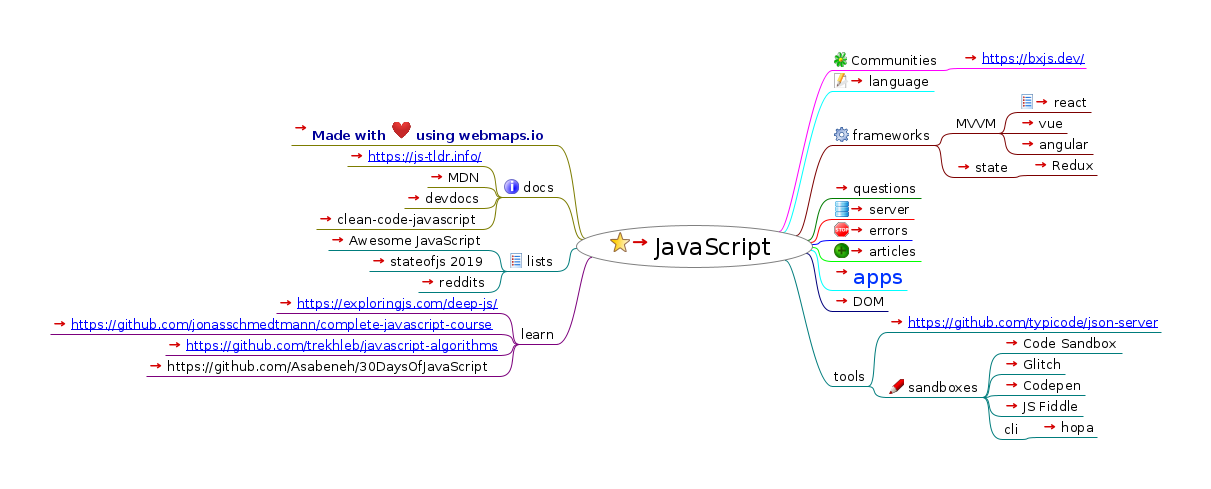
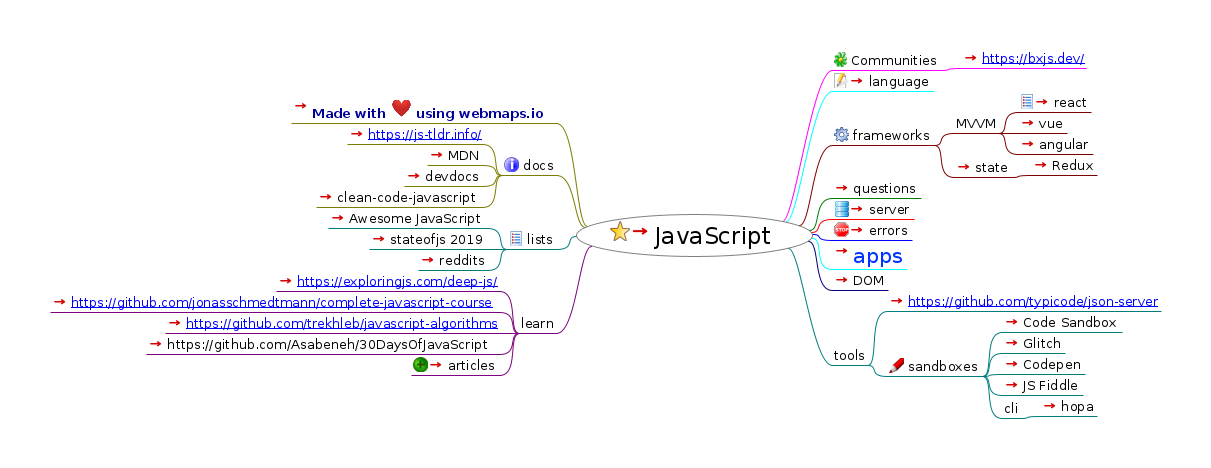
articles

Changed region(s): [[0.0306, 0.0897, 0.9777, 0.9274], [0.5194, 0.5385, 0.6111, 0.5684], [0.4583, 0.2991, 0.4889, 0.3291]]

diff --git a/index.html b/index.html
@@ -23,22 +23,23 @@
                    };
                };
           
-          --></script></head><body><h1>JavaScript</h1><div style="width:96%;  padding:2%;  margin-bottom:10px;  border: 0px;  text-align:center;  vertical-align:center;"><img src="index.html_files/image.png" style="margin-bottom:10px; &#9;border: 0px; &#9;text-align:center; &#9;vertical-align:center;" alt="Imagemap" usemap="#fm_imagemap" /></div><map name="fm_imagemap" id="fm_imagemap"><area shape="rect" href="../tech/index.html" alt="JavaScript" title="JavaScript" coords="576,225,813,268" />
-<area shape="rect" href="https://webmaps.io/" alt="Made with  using webmaps.io" title="Made with  using webmaps.io" coords="291,120,557,145" />
-<area shape="rect" href="#FMID_1425964050FM" alt="docs" title="docs" coords="502,179,557,197" />
-<area shape="rect" href="https://js-tldr.info/" alt="https://js-tldr.info/" title="https://js-tldr.info/" coords="347,148,483,166" />
-<area shape="rect" href="https://developer.mozilla.org/en-US/docs/Web/JavaScript" alt="MDN" title="MDN" coords="427,169,483,187" />
-<area shape="rect" href="https://devdocs.io/javascript/" alt="devdocs" title="devdocs" coords="404,190,483,208" />
-<area shape="rect" href="https://github.com/ryanmcdermott/clean-code-javascript" alt="clean-code-javascript" title="clean-code-javascript" coords="316,211,483,229" />
-<area shape="rect" href="#FMID_829378880FM" alt="lists" title="lists" coords="507,253,557,271" />
-<area shape="rect" href="https://github.com/sorrycc/awesome-javascript" alt="Awesome JavaScript" title="Awesome JavaScript" coords="328,232,488,250" />
-<area shape="rect" href="https://2019.stateofjs.com/" alt="stateofjs 2019" title="stateofjs 2019" coords="369,253,488,271" />
-<area shape="rect" href="https://anvaka.github.io/sayit/?query=JavaScript" alt="reddits" title="reddits" coords="418,274,488,292" />
-<area shape="rect" href="#FMID_214253158FM" alt="learn" title="learn" coords="519,326,557,344" />
-<area shape="rect" href="https://exploringjs.com/deep-js/" alt="https://exploringjs.com/deep-js/" title="https://exploringjs.com/deep-js/" coords="276,295,500,313" />
-<area shape="rect" href="https://github.com/jonasschmedtmann/complete-javascript-course" alt="https://github.com/jonasschmedtmann/comp ..." title="https://github.com/jonasschmedtmann/comp ..." coords="50,316,500,334" />
-<area shape="rect" href="https://github.com/trekhleb/javascript-algorithms" alt="https://github.com/trekhleb/javascript-a ..." title="https://github.com/trekhleb/javascript-a ..." coords="165,337,500,355" />
-<area shape="rect" href="https://github.com/Asabeneh/30DaysOfJavaScript" alt="https://github.com/Asabeneh/30DaysOfJava ..." title="https://github.com/Asabeneh/30DaysOfJava ..." coords="146,358,500,376" />
+          --></script></head><body><h1>JavaScript</h1><div style="width:96%;  padding:2%;  margin-bottom:10px;  border: 0px;  text-align:center;  vertical-align:center;"><img src="index.html_files/image.png" style="margin-bottom:10px; &#9;border: 0px; &#9;text-align:center; &#9;vertical-align:center;" alt="Imagemap" usemap="#fm_imagemap" /></div><map name="fm_imagemap" id="fm_imagemap"><area shape="rect" href="../tech/index.html" alt="JavaScript" title="JavaScript" coords="576,214,813,257" />
+<area shape="rect" href="https://webmaps.io/" alt="Made with  using webmaps.io" title="Made with  using webmaps.io" coords="291,98,557,123" />
+<area shape="rect" href="#FMID_1425964050FM" alt="docs" title="docs" coords="502,157,557,175" />
+<area shape="rect" href="https://js-tldr.info/" alt="https://js-tldr.info/" title="https://js-tldr.info/" coords="347,126,483,144" />
+<area shape="rect" href="https://developer.mozilla.org/en-US/docs/Web/JavaScript" alt="MDN" title="MDN" coords="427,147,483,165" />
+<area shape="rect" href="https://devdocs.io/javascript/" alt="devdocs" title="devdocs" coords="404,168,483,186" />
+<area shape="rect" href="https://github.com/ryanmcdermott/clean-code-javascript" alt="clean-code-javascript" title="clean-code-javascript" coords="316,189,483,207" />
+<area shape="rect" href="#FMID_829378880FM" alt="lists" title="lists" coords="507,231,557,249" />
+<area shape="rect" href="https://github.com/sorrycc/awesome-javascript" alt="Awesome JavaScript" title="Awesome JavaScript" coords="328,210,488,228" />
+<area shape="rect" href="https://2019.stateofjs.com/" alt="stateofjs 2019" title="stateofjs 2019" coords="369,231,488,249" />
+<area shape="rect" href="https://anvaka.github.io/sayit/?query=JavaScript" alt="reddits" title="reddits" coords="418,252,488,270" />
+<area shape="rect" href="#FMID_214253158FM" alt="learn" title="learn" coords="519,315,557,333" />
+<area shape="rect" href="https://exploringjs.com/deep-js/" alt="https://exploringjs.com/deep-js/" title="https://exploringjs.com/deep-js/" coords="276,273,500,291" />
+<area shape="rect" href="https://github.com/jonasschmedtmann/complete-javascript-course" alt="https://github.com/jonasschmedtmann/comp ..." title="https://github.com/jonasschmedtmann/comp ..." coords="50,294,500,312" />
+<area shape="rect" href="https://github.com/trekhleb/javascript-algorithms" alt="https://github.com/trekhleb/javascript-a ..." title="https://github.com/trekhleb/javascript-a ..." coords="165,315,500,333" />
+<area shape="rect" href="https://github.com/Asabeneh/30DaysOfJavaScript" alt="https://github.com/Asabeneh/30DaysOfJava ..." title="https://github.com/Asabeneh/30DaysOfJava ..." coords="146,336,500,354" />
+<area shape="rect" href="articles/index.html" alt="articles" title="articles" coords="411,357,500,375" />
 <area shape="rect" href="#FMID_849215328FM" alt="Communities" title="Communities" coords="832,52,942,70" />
 <area shape="rect" href="https://bxjs.dev/" alt="https://bxjs.dev/" title="https://bxjs.dev/" coords="961,50,1086,68" />
 <area shape="rect" href="language.html" alt="language" title="language" coords="832,73,934,91" />
@@ -52,18 +53,17 @@
 <area shape="rect" href="questions.html" alt="questions" title="questions" coords="832,180,921,198" />
 <area shape="rect" href="server/index.html" alt="server" title="server" coords="832,201,914,219" />
 <area shape="rect" href="https://blog.appsignal.com/2019/10/17/javascript-errors-an-exceptional-history.html" alt="errors" title="errors" coords="832,222,912,240" />
-<area shape="rect" href="articles/index.html" alt="articles" title="articles" coords="832,243,921,261" />
-<area shape="rect" href="apps/index.html" alt="apps" title="apps" coords="832,264,907,290" />
-<area shape="rect" href="DOM.html" alt="DOM" title="DOM" coords="832,293,888,311" />
-<area shape="rect" href="#FMID_1461111151FM" alt="tools" title="tools" coords="832,368,868,386" />
-<area shape="rect" href="https://github.com/typicode/json-server" alt="https://github.com/typicode/json-server" title="https://github.com/typicode/json-server" coords="887,314,1161,332" />
-<area shape="rect" href="#FMID_1460537766FM" alt="sandboxes" title="sandboxes" coords="887,379,983,397" />
-<area shape="rect" href="https://codesandbox.io/" alt="Code Sandbox" title="Code Sandbox" coords="1002,335,1122,353" />
-<area shape="rect" href="https://glitch.com/" alt="Glitch" title="Glitch" coords="1002,356,1065,374" />
-<area shape="rect" href="https://codepen.io/" alt="Codepen" title="Codepen" coords="1002,377,1085,395" />
-<area shape="rect" href="https://jsfiddle.net/" alt="JS Fiddle" title="JS Fiddle" coords="1002,398,1083,416" />
-<area shape="rect" href="#FMID_430954936FM" alt="cli" title="cli" coords="1002,421,1021,439" />
-<area shape="rect" href="https://github.com/krasimir/hopa" alt="hopa" title="hopa" coords="1040,419,1097,437" />
+<area shape="rect" href="apps/index.html" alt="apps" title="apps" coords="832,243,907,269" />
+<area shape="rect" href="DOM.html" alt="DOM" title="DOM" coords="832,272,888,290" />
+<area shape="rect" href="#FMID_1461111151FM" alt="tools" title="tools" coords="832,347,868,365" />
+<area shape="rect" href="https://github.com/typicode/json-server" alt="https://github.com/typicode/json-server" title="https://github.com/typicode/json-server" coords="887,293,1161,311" />
+<area shape="rect" href="#FMID_1460537766FM" alt="sandboxes" title="sandboxes" coords="887,358,983,376" />
+<area shape="rect" href="https://codesandbox.io/" alt="Code Sandbox" title="Code Sandbox" coords="1002,314,1122,332" />
+<area shape="rect" href="https://glitch.com/" alt="Glitch" title="Glitch" coords="1002,335,1065,353" />
+<area shape="rect" href="https://codepen.io/" alt="Codepen" title="Codepen" coords="1002,356,1085,374" />
+<area shape="rect" href="https://jsfiddle.net/" alt="JS Fiddle" title="JS Fiddle" coords="1002,377,1083,395" />
+<area shape="rect" href="#FMID_430954936FM" alt="cli" title="cli" coords="1002,400,1021,418" />
+<area shape="rect" href="https://github.com/krasimir/hopa" alt="hopa" title="hopa" coords="1040,398,1097,416" />
 </map>
 
 <div class="node"><img src="index.html_files/hide.png" class="hideshow" alt="hide" onClick="toggle(&quot;N65543&quot;)" id="imgN65543" /><img src="index.html_files/icons/bookmark.svg" alt="bookmark" /> <a id="FMID_110073400FM" /><div class="nodecontent" style="color:#000000;font-size:150%;"><a href="../tech/index.html">JavaScript</a> <a href="../tech/index.html"><img src="index.html_files/ilink.png" alt="User Link" style="border-width:0" /></a></div><div class="content" id="N65543"><div class="node"><img src="index.html_files/leaf.png" class="hideshow" alt="leaf" /><a id="FMID_1974475433FM" /><div class="nodecontent" style="color:#000099;font-size:83%;font-weight:bold;"><a href="https://webmaps.io/">
@@ -76,9 +76,9 @@
     <a http-equiv="content-type" content="text/html; charset=utf-8" href="https://github.com/jonasschmedtmann/complete-javascript-course">https://github.com/jonasschmedtmann/complete-javascript-course</a>
   </a> <a href="https://github.com/jonasschmedtmann/complete-javascript-course"><img src="index.html_files/ilink.png" alt="User Link" style="border-width:0" /></a></div></div><div class="node"><img src="index.html_files/leaf.png" class="hideshow" alt="leaf" /><a id="FMID_1408745494FM" /><div class="nodecontent" style="color:#000000;font-size:83%;"><a href="https://github.com/trekhleb/javascript-algorithms">
     <a http-equiv="content-type" content="text/html; charset=utf-8" href="https://github.com/trekhleb/javascript-algorithms">https://github.com/trekhleb/javascript-algorithms</a>
-  </a> <a href="https://github.com/trekhleb/javascript-algorithms"><img src="index.html_files/ilink.png" alt="User Link" style="border-width:0" /></a></div></div><div class="node"><img src="index.html_files/leaf.png" class="hideshow" alt="leaf" /><a id="FMID_1597121470FM" /><div class="nodecontent" style="color:#000000;font-size:83%;"><a href="https://github.com/Asabeneh/30DaysOfJavaScript">https://github.com/Asabeneh/30DaysOfJavaScript</a> <a href="https://github.com/Asabeneh/30DaysOfJavaScript"><img src="index.html_files/ilink.png" alt="User Link" style="border-width:0" /></a></div></div></div></div><div class="node"><img src="index.html_files/hide.png" class="hideshow" alt="hide" onClick="toggle(&quot;N67103&quot;)" id="imgN67103" /><img src="index.html_files/icons/licq.svg" alt="licq" /> <a id="FMID_849215328FM" /><div class="nodecontent" style="color:#000000;font-size:83%;">Communities</div><div class="content" id="N67103"><div class="node"><img src="index.html_files/leaf.png" class="hideshow" alt="leaf" /><a id="FMID_1384859362FM" /><div class="nodecontent" style="color:#000000;font-size:83%;"><a href="https://bxjs.dev/">
+  </a> <a href="https://github.com/trekhleb/javascript-algorithms"><img src="index.html_files/ilink.png" alt="User Link" style="border-width:0" /></a></div></div><div class="node"><img src="index.html_files/leaf.png" class="hideshow" alt="leaf" /><a id="FMID_1597121470FM" /><div class="nodecontent" style="color:#000000;font-size:83%;"><a href="https://github.com/Asabeneh/30DaysOfJavaScript">https://github.com/Asabeneh/30DaysOfJavaScript</a> <a href="https://github.com/Asabeneh/30DaysOfJavaScript"><img src="index.html_files/ilink.png" alt="User Link" style="border-width:0" /></a></div></div><div class="node"><img src="index.html_files/leaf.png" class="hideshow" alt="leaf" /><img src="index.html_files/icons/very_positive.svg" alt="very_positive" /> <a id="FMID_51150335FM" /><div class="nodecontent" style="color:#000000;font-size:83%;"><a href="articles/index.html">articles</a> <a href="articles/index.html"><img src="index.html_files/ilink.png" alt="User Link" style="border-width:0" /></a></div></div></div></div><div class="node"><img src="index.html_files/hide.png" class="hideshow" alt="hide" onClick="toggle(&quot;N67145&quot;)" id="imgN67145" /><img src="index.html_files/icons/licq.svg" alt="licq" /> <a id="FMID_849215328FM" /><div class="nodecontent" style="color:#000000;font-size:83%;">Communities</div><div class="content" id="N67145"><div class="node"><img src="index.html_files/leaf.png" class="hideshow" alt="leaf" /><a id="FMID_1384859362FM" /><div class="nodecontent" style="color:#000000;font-size:83%;"><a href="https://bxjs.dev/">
     <a http-equiv="content-type" content="text/html; charset=utf-8" href="https://bxjs.dev/">https://bxjs.dev/</a>
-  </a> <a href="https://bxjs.dev/"><img src="index.html_files/ilink.png" alt="User Link" style="border-width:0" /></a></div></div></div></div><div class="node"><img src="index.html_files/leaf.png" class="hideshow" alt="leaf" /><img src="index.html_files/icons/edit.svg" alt="edit" /> <a id="FMID_1566689685FM" /><div class="nodecontent" style="color:#000000;font-size:83%;"><a href="language.html">language</a> <a href="language.html"><img src="index.html_files/ilink.png" alt="User Link" style="border-width:0" /></a></div></div><div class="node"><img src="index.html_files/hide.png" class="hideshow" alt="hide" onClick="toggle(&quot;N67243&quot;)" id="imgN67243" /><img src="index.html_files/icons/executable.svg" alt="executable" /> <a id="FMID_153818301FM" /><div class="nodecontent" style="color:#000000;font-size:83%;">frameworks</div><div class="content" id="N67243"><div class="node"><img src="index.html_files/hide.png" class="hideshow" alt="hide" onClick="toggle(&quot;N67284&quot;)" id="imgN67284" /><a id="FMID_208171559FM" /><div class="nodecontent" style="color:#000000;font-size:83%;">MVVM</div><div class="content" id="N67284"><div class="node"><img src="index.html_files/leaf.png" class="hideshow" alt="leaf" /><img src="index.html_files/icons/list.svg" alt="list" /> <a id="FMID_921980201FM" /><div class="nodecontent" style="color:#000000;font-size:83%;"><a href="react/index.html">react</a> <a href="react/index.html"><img src="index.html_files/ilink.png" alt="User Link" style="border-width:0" /></a></div></div><div class="node"><img src="index.html_files/leaf.png" class="hideshow" alt="leaf" /><a id="FMID_850712897FM" /><div class="nodecontent" style="color:#000000;font-size:83%;"><a href="https://vuejs.org/">vue</a> <a href="https://vuejs.org/"><img src="index.html_files/ilink.png" alt="User Link" style="border-width:0" /></a></div></div><div class="node"><img src="index.html_files/leaf.png" class="hideshow" alt="leaf" /><a id="FMID_101804111FM" /><div class="nodecontent" style="color:#000000;font-size:83%;"><a href="https://angular.io/">angular</a> <a href="https://angular.io/"><img src="index.html_files/ilink.png" alt="User Link" style="border-width:0" /></a></div></div></div></div><div class="node"><img src="index.html_files/hide.png" class="hideshow" alt="hide" onClick="toggle(&quot;N67436&quot;)" id="imgN67436" /><a id="FMID_156551041FM" /><div class="nodecontent" style="color:#000000;font-size:83%;"><a href="state/index.html">state</a> <a href="state/index.html"><img src="index.html_files/ilink.png" alt="User Link" style="border-width:0" /></a></div><div class="content" id="N67436"><div class="node"><img src="index.html_files/leaf.png" class="hideshow" alt="leaf" /><a id="FMID_1871522161FM" /><div class="nodecontent" style="color:#000000;font-size:83%;"><a href="state/index.html">Redux</a> <a href="state/index.html"><img src="index.html_files/ilink.png" alt="User Link" style="border-width:0" /></a></div></div></div></div></div></div><div class="node"><img src="index.html_files/leaf.png" class="hideshow" alt="leaf" /><a id="FMID_845980270FM" /><div class="nodecontent" style="color:#000000;font-size:83%;"><a href="questions.html">questions</a> <a href="questions.html"><img src="index.html_files/ilink.png" alt="User Link" style="border-width:0" /></a></div></div><div class="node"><img src="index.html_files/leaf.png" class="hideshow" alt="leaf" /><img src="index.html_files/icons/16x16-free-application-icons/png/16x16/Database.png" alt="16x16-free-application-icons/png/16x16/Database" /> <a id="FMID_1516168898FM" /><div class="nodecontent" style="color:#000000;font-size:83%;"><a href="server/index.html">server</a> <a href="server/index.html"><img src="index.html_files/ilink.png" alt="User Link" style="border-width:0" /></a></div></div><div class="node"><img src="index.html_files/leaf.png" class="hideshow" alt="leaf" /><img src="index.html_files/icons/stop-sign.svg" alt="stop-sign" /> <a id="FMID_437549538FM" /><div class="nodecontent" style="color:#000000;font-size:83%;"><a href="https://blog.appsignal.com/2019/10/17/javascript-errors-an-exceptional-history.html">errors</a> <a href="https://blog.appsignal.com/2019/10/17/javascript-errors-an-exceptional-history.html"><img src="index.html_files/ilink.png" alt="User Link" style="border-width:0" /></a></div></div><div class="node"><img src="index.html_files/leaf.png" class="hideshow" alt="leaf" /><img src="index.html_files/icons/very_positive.svg" alt="very_positive" /> <a id="FMID_51150335FM" /><div class="nodecontent" style="color:#000000;font-size:83%;"><a href="articles/index.html">articles</a> <a href="articles/index.html"><img src="index.html_files/ilink.png" alt="User Link" style="border-width:0" /></a></div></div><div class="node"><img src="index.html_files/leaf.png" class="hideshow" alt="leaf" /><a id="FMID_452171129FM" /><div class="nodecontent" style="color:#0033ff;font-size:133%;"><a href="apps/index.html">apps</a> <a href="apps/index.html"><img src="index.html_files/ilink.png" alt="User Link" style="border-width:0" /></a></div></div><div class="node"><img src="index.html_files/leaf.png" class="hideshow" alt="leaf" /><a id="FMID_1132407233FM" /><div class="nodecontent" style="color:#000000;font-size:83%;"><a href="DOM.html">DOM</a> <a href="DOM.html"><img src="index.html_files/ilink.png" alt="User Link" style="border-width:0" /></a></div></div><div class="node"><img src="index.html_files/hide.png" class="hideshow" alt="hide" onClick="toggle(&quot;N67755&quot;)" id="imgN67755" /><a id="FMID_1461111151FM" /><div class="nodecontent" style="color:#000000;font-size:83%;">tools</div><div class="content" id="N67755"><div class="node"><img src="index.html_files/leaf.png" class="hideshow" alt="leaf" /><a id="FMID_1388137807FM" /><div class="nodecontent" style="color:#000000;font-size:83%;"><a href="https://github.com/typicode/json-server">
+  </a> <a href="https://bxjs.dev/"><img src="index.html_files/ilink.png" alt="User Link" style="border-width:0" /></a></div></div></div></div><div class="node"><img src="index.html_files/leaf.png" class="hideshow" alt="leaf" /><img src="index.html_files/icons/edit.svg" alt="edit" /> <a id="FMID_1566689685FM" /><div class="nodecontent" style="color:#000000;font-size:83%;"><a href="language.html">language</a> <a href="language.html"><img src="index.html_files/ilink.png" alt="User Link" style="border-width:0" /></a></div></div><div class="node"><img src="index.html_files/hide.png" class="hideshow" alt="hide" onClick="toggle(&quot;N67285&quot;)" id="imgN67285" /><img src="index.html_files/icons/executable.svg" alt="executable" /> <a id="FMID_153818301FM" /><div class="nodecontent" style="color:#000000;font-size:83%;">frameworks</div><div class="content" id="N67285"><div class="node"><img src="index.html_files/hide.png" class="hideshow" alt="hide" onClick="toggle(&quot;N67326&quot;)" id="imgN67326" /><a id="FMID_208171559FM" /><div class="nodecontent" style="color:#000000;font-size:83%;">MVVM</div><div class="content" id="N67326"><div class="node"><img src="index.html_files/leaf.png" class="hideshow" alt="leaf" /><img src="index.html_files/icons/list.svg" alt="list" /> <a id="FMID_921980201FM" /><div class="nodecontent" style="color:#000000;font-size:83%;"><a href="react/index.html">react</a> <a href="react/index.html"><img src="index.html_files/ilink.png" alt="User Link" style="border-width:0" /></a></div></div><div class="node"><img src="index.html_files/leaf.png" class="hideshow" alt="leaf" /><a id="FMID_850712897FM" /><div class="nodecontent" style="color:#000000;font-size:83%;"><a href="https://vuejs.org/">vue</a> <a href="https://vuejs.org/"><img src="index.html_files/ilink.png" alt="User Link" style="border-width:0" /></a></div></div><div class="node"><img src="index.html_files/leaf.png" class="hideshow" alt="leaf" /><a id="FMID_101804111FM" /><div class="nodecontent" style="color:#000000;font-size:83%;"><a href="https://angular.io/">angular</a> <a href="https://angular.io/"><img src="index.html_files/ilink.png" alt="User Link" style="border-width:0" /></a></div></div></div></div><div class="node"><img src="index.html_files/hide.png" class="hideshow" alt="hide" onClick="toggle(&quot;N67478&quot;)" id="imgN67478" /><a id="FMID_156551041FM" /><div class="nodecontent" style="color:#000000;font-size:83%;"><a href="state/index.html">state</a> <a href="state/index.html"><img src="index.html_files/ilink.png" alt="User Link" style="border-width:0" /></a></div><div class="content" id="N67478"><div class="node"><img src="index.html_files/leaf.png" class="hideshow" alt="leaf" /><a id="FMID_1871522161FM" /><div class="nodecontent" style="color:#000000;font-size:83%;"><a href="state/index.html">Redux</a> <a href="state/index.html"><img src="index.html_files/ilink.png" alt="User Link" style="border-width:0" /></a></div></div></div></div></div></div><div class="node"><img src="index.html_files/leaf.png" class="hideshow" alt="leaf" /><a id="FMID_845980270FM" /><div class="nodecontent" style="color:#000000;font-size:83%;"><a href="questions.html">questions</a> <a href="questions.html"><img src="index.html_files/ilink.png" alt="User Link" style="border-width:0" /></a></div></div><div class="node"><img src="index.html_files/leaf.png" class="hideshow" alt="leaf" /><img src="index.html_files/icons/16x16-free-application-icons/png/16x16/Database.png" alt="16x16-free-application-icons/png/16x16/Database" /> <a id="FMID_1516168898FM" /><div class="nodecontent" style="color:#000000;font-size:83%;"><a href="server/index.html">server</a> <a href="server/index.html"><img src="index.html_files/ilink.png" alt="User Link" style="border-width:0" /></a></div></div><div class="node"><img src="index.html_files/leaf.png" class="hideshow" alt="leaf" /><img src="index.html_files/icons/stop-sign.svg" alt="stop-sign" /> <a id="FMID_437549538FM" /><div class="nodecontent" style="color:#000000;font-size:83%;"><a href="https://blog.appsignal.com/2019/10/17/javascript-errors-an-exceptional-history.html">errors</a> <a href="https://blog.appsignal.com/2019/10/17/javascript-errors-an-exceptional-history.html"><img src="index.html_files/ilink.png" alt="User Link" style="border-width:0" /></a></div></div><div class="node"><img src="index.html_files/leaf.png" class="hideshow" alt="leaf" /><a id="FMID_452171129FM" /><div class="nodecontent" style="color:#0033ff;font-size:133%;"><a href="apps/index.html">apps</a> <a href="apps/index.html"><img src="index.html_files/ilink.png" alt="User Link" style="border-width:0" /></a></div></div><div class="node"><img src="index.html_files/leaf.png" class="hideshow" alt="leaf" /><a id="FMID_1132407233FM" /><div class="nodecontent" style="color:#000000;font-size:83%;"><a href="DOM.html">DOM</a> <a href="DOM.html"><img src="index.html_files/ilink.png" alt="User Link" style="border-width:0" /></a></div></div><div class="node"><img src="index.html_files/hide.png" class="hideshow" alt="hide" onClick="toggle(&quot;N67754&quot;)" id="imgN67754" /><a id="FMID_1461111151FM" /><div class="nodecontent" style="color:#000000;font-size:83%;">tools</div><div class="content" id="N67754"><div class="node"><img src="index.html_files/leaf.png" class="hideshow" alt="leaf" /><a id="FMID_1388137807FM" /><div class="nodecontent" style="color:#000000;font-size:83%;"><a href="https://github.com/typicode/json-server">
     <a http-equiv="content-type" content="text/html; charset=utf-8" href="https://github.com/typicode/json-server">https://github.com/typicode/json-server</a>
-  </a> <a href="https://github.com/typicode/json-server"><img src="index.html_files/ilink.png" alt="User Link" style="border-width:0" /></a></div></div><div class="node"><img src="index.html_files/hide.png" class="hideshow" alt="hide" onClick="toggle(&quot;N67846&quot;)" id="imgN67846" /><img src="index.html_files/icons/pencil.svg" alt="pencil" /> <a id="FMID_1460537766FM" /><div class="nodecontent" style="color:#000000;font-size:83%;">sandboxes</div><div class="content" id="N67846"><div class="node"><img src="index.html_files/leaf.png" class="hideshow" alt="leaf" /><a id="FMID_899668548FM" /><div class="nodecontent" style="color:#000000;font-size:83%;"><a href="https://codesandbox.io/">Code Sandbox</a> <a href="https://codesandbox.io/"><img src="index.html_files/ilink.png" alt="User Link" style="border-width:0" /></a></div></div><div class="node"><img src="index.html_files/leaf.png" class="hideshow" alt="leaf" /><a id="FMID_1286093091FM" /><div class="nodecontent" style="color:#000000;font-size:83%;"><a href="https://glitch.com/">Glitch</a> <a href="https://glitch.com/"><img src="index.html_files/ilink.png" alt="User Link" style="border-width:0" /></a></div></div><div class="node"><img src="index.html_files/leaf.png" class="hideshow" alt="leaf" /><a id="FMID_942460316FM" /><div class="nodecontent" style="color:#000000;font-size:83%;"><a href="https://codepen.io/">Codepen</a> <a href="https://codepen.io/"><img src="index.html_files/ilink.png" alt="User Link" style="border-width:0" /></a></div></div><div class="node"><img src="index.html_files/leaf.png" class="hideshow" alt="leaf" /><a id="FMID_1150601009FM" /><div class="nodecontent" style="color:#000000;font-size:83%;"><a href="https://jsfiddle.net/">JS Fiddle</a> <a href="https://jsfiddle.net/"><img src="index.html_files/ilink.png" alt="User Link" style="border-width:0" /></a></div></div><div class="node"><img src="index.html_files/hide.png" class="hideshow" alt="hide" onClick="toggle(&quot;N68034&quot;)" id="imgN68034" /><a id="FMID_430954936FM" /><div class="nodecontent" style="color:#000000;font-size:83%;">cli</div><div class="content" id="N68034"><div class="node"><img src="index.html_files/leaf.png" class="hideshow" alt="leaf" /><a id="FMID_1925156083FM" /><div class="nodecontent" style="color:#000000;font-size:83%;"><a href="https://github.com/krasimir/hopa">hopa</a> <a href="https://github.com/krasimir/hopa"><img src="index.html_files/ilink.png" alt="User Link" style="border-width:0" /></a></div></div></div></div></div></div></div></div></div></div>
+  </a> <a href="https://github.com/typicode/json-server"><img src="index.html_files/ilink.png" alt="User Link" style="border-width:0" /></a></div></div><div class="node"><img src="index.html_files/hide.png" class="hideshow" alt="hide" onClick="toggle(&quot;N67845&quot;)" id="imgN67845" /><img src="index.html_files/icons/pencil.svg" alt="pencil" /> <a id="FMID_1460537766FM" /><div class="nodecontent" style="color:#000000;font-size:83%;">sandboxes</div><div class="content" id="N67845"><div class="node"><img src="index.html_files/leaf.png" class="hideshow" alt="leaf" /><a id="FMID_899668548FM" /><div class="nodecontent" style="color:#000000;font-size:83%;"><a href="https://codesandbox.io/">Code Sandbox</a> <a href="https://codesandbox.io/"><img src="index.html_files/ilink.png" alt="User Link" style="border-width:0" /></a></div></div><div class="node"><img src="index.html_files/leaf.png" class="hideshow" alt="leaf" /><a id="FMID_1286093091FM" /><div class="nodecontent" style="color:#000000;font-size:83%;"><a href="https://glitch.com/">Glitch</a> <a href="https://glitch.com/"><img src="index.html_files/ilink.png" alt="User Link" style="border-width:0" /></a></div></div><div class="node"><img src="index.html_files/leaf.png" class="hideshow" alt="leaf" /><a id="FMID_942460316FM" /><div class="nodecontent" style="color:#000000;font-size:83%;"><a href="https://codepen.io/">Codepen</a> <a href="https://codepen.io/"><img src="index.html_files/ilink.png" alt="User Link" style="border-width:0" /></a></div></div><div class="node"><img src="index.html_files/leaf.png" class="hideshow" alt="leaf" /><a id="FMID_1150601009FM" /><div class="nodecontent" style="color:#000000;font-size:83%;"><a href="https://jsfiddle.net/">JS Fiddle</a> <a href="https://jsfiddle.net/"><img src="index.html_files/ilink.png" alt="User Link" style="border-width:0" /></a></div></div><div class="node"><img src="index.html_files/hide.png" class="hideshow" alt="hide" onClick="toggle(&quot;N68033&quot;)" id="imgN68033" /><a id="FMID_430954936FM" /><div class="nodecontent" style="color:#000000;font-size:83%;">cli</div><div class="content" id="N68033"><div class="node"><img src="index.html_files/leaf.png" class="hideshow" alt="leaf" /><a id="FMID_1925156083FM" /><div class="nodecontent" style="color:#000000;font-size:83%;"><a href="https://github.com/krasimir/hopa">hopa</a> <a href="https://github.com/krasimir/hopa"><img src="index.html_files/ilink.png" alt="User Link" style="border-width:0" /></a></div></div></div></div></div></div></div></div></div></div>
 </body></html>

diff --git a/index.ppt.html b/index.ppt.html
@@ -85,9 +85,6 @@
                         <li class="icon">
                             <span aria-hidden="true" class="fa fa-stop-circle"></span><a href="https://blog.appsignal.com/2019/10/17/javascript-errors-an-exceptional-history.html" class="link external">errors</a>
                         </li>
-                        <li class="icon">
-                            <span aria-hidden="true" class="fa fa-thumbs-up"></span><a href="articles/index.mm" class="link external">articles</a>
-                        </li>
                         <li>
                             <a href="apps/index.mm" class="link external">apps</a>
                         </li>
@@ -144,6 +141,9 @@
                         </li>
                         <li>
                             <a href="https://github.com/Asabeneh/30DaysOfJavaScript" class="link external">https://github.com/Asabeneh/30DaysOfJavaScript</a>
+                        </li>
+                        <li class="icon">
+                            <span aria-hidden="true" class="fa fa-thumbs-up"></span><a href="articles/index.mm" class="link external">articles</a>
                         </li>
                     </ul>
                 </section>

diff --git a/index.mm b/index.mm
@@ -144,6 +144,9 @@
 </richcontent>
 </node>
 <node TEXT="https://github.com/Asabeneh/30DaysOfJavaScript" ID="ID_1597121470" CREATED="1578223725814" MODIFIED="1578223725814" LINK="https://github.com/Asabeneh/30DaysOfJavaScript"/>
+<node TEXT="articles" ID="ID_51150335" CREATED="1574355033593" MODIFIED="1581546207594" LINK="articles/index.mm">
+<icon BUILTIN="very_positive"/>
+</node>
 </node>
 <node TEXT="Communities" POSITION="right" ID="ID_849215328" CREATED="1570476065863" MODIFIED="1574676159071">
 <icon BUILTIN="licq"/>
@@ -191,10 +194,6 @@
 <node TEXT="errors" POSITION="right" ID="ID_437549538" CREATED="1573042933206" MODIFIED="1573042980995" LINK="https://blog.appsignal.com/2019/10/17/javascript-errors-an-exceptional-history.html">
 <icon BUILTIN="stop-sign"/>
 <edge COLOR="#0000ff"/>
-</node>
-<node TEXT="articles" POSITION="right" ID="ID_51150335" CREATED="1574355033593" MODIFIED="1574355114620" LINK="articles/index.mm">
-<icon BUILTIN="very_positive"/>
-<edge COLOR="#00ff00"/>
 </node>
 <node TEXT="apps" LOCALIZED_STYLE_REF="AutomaticLayout.level,1" POSITION="right" ID="ID_452171129" CREATED="1574897128910" MODIFIED="1578583413124" LINK="apps/index.mm">
 <edge STYLE="bezier" COLOR="#00ffff" WIDTH="thin"/>
